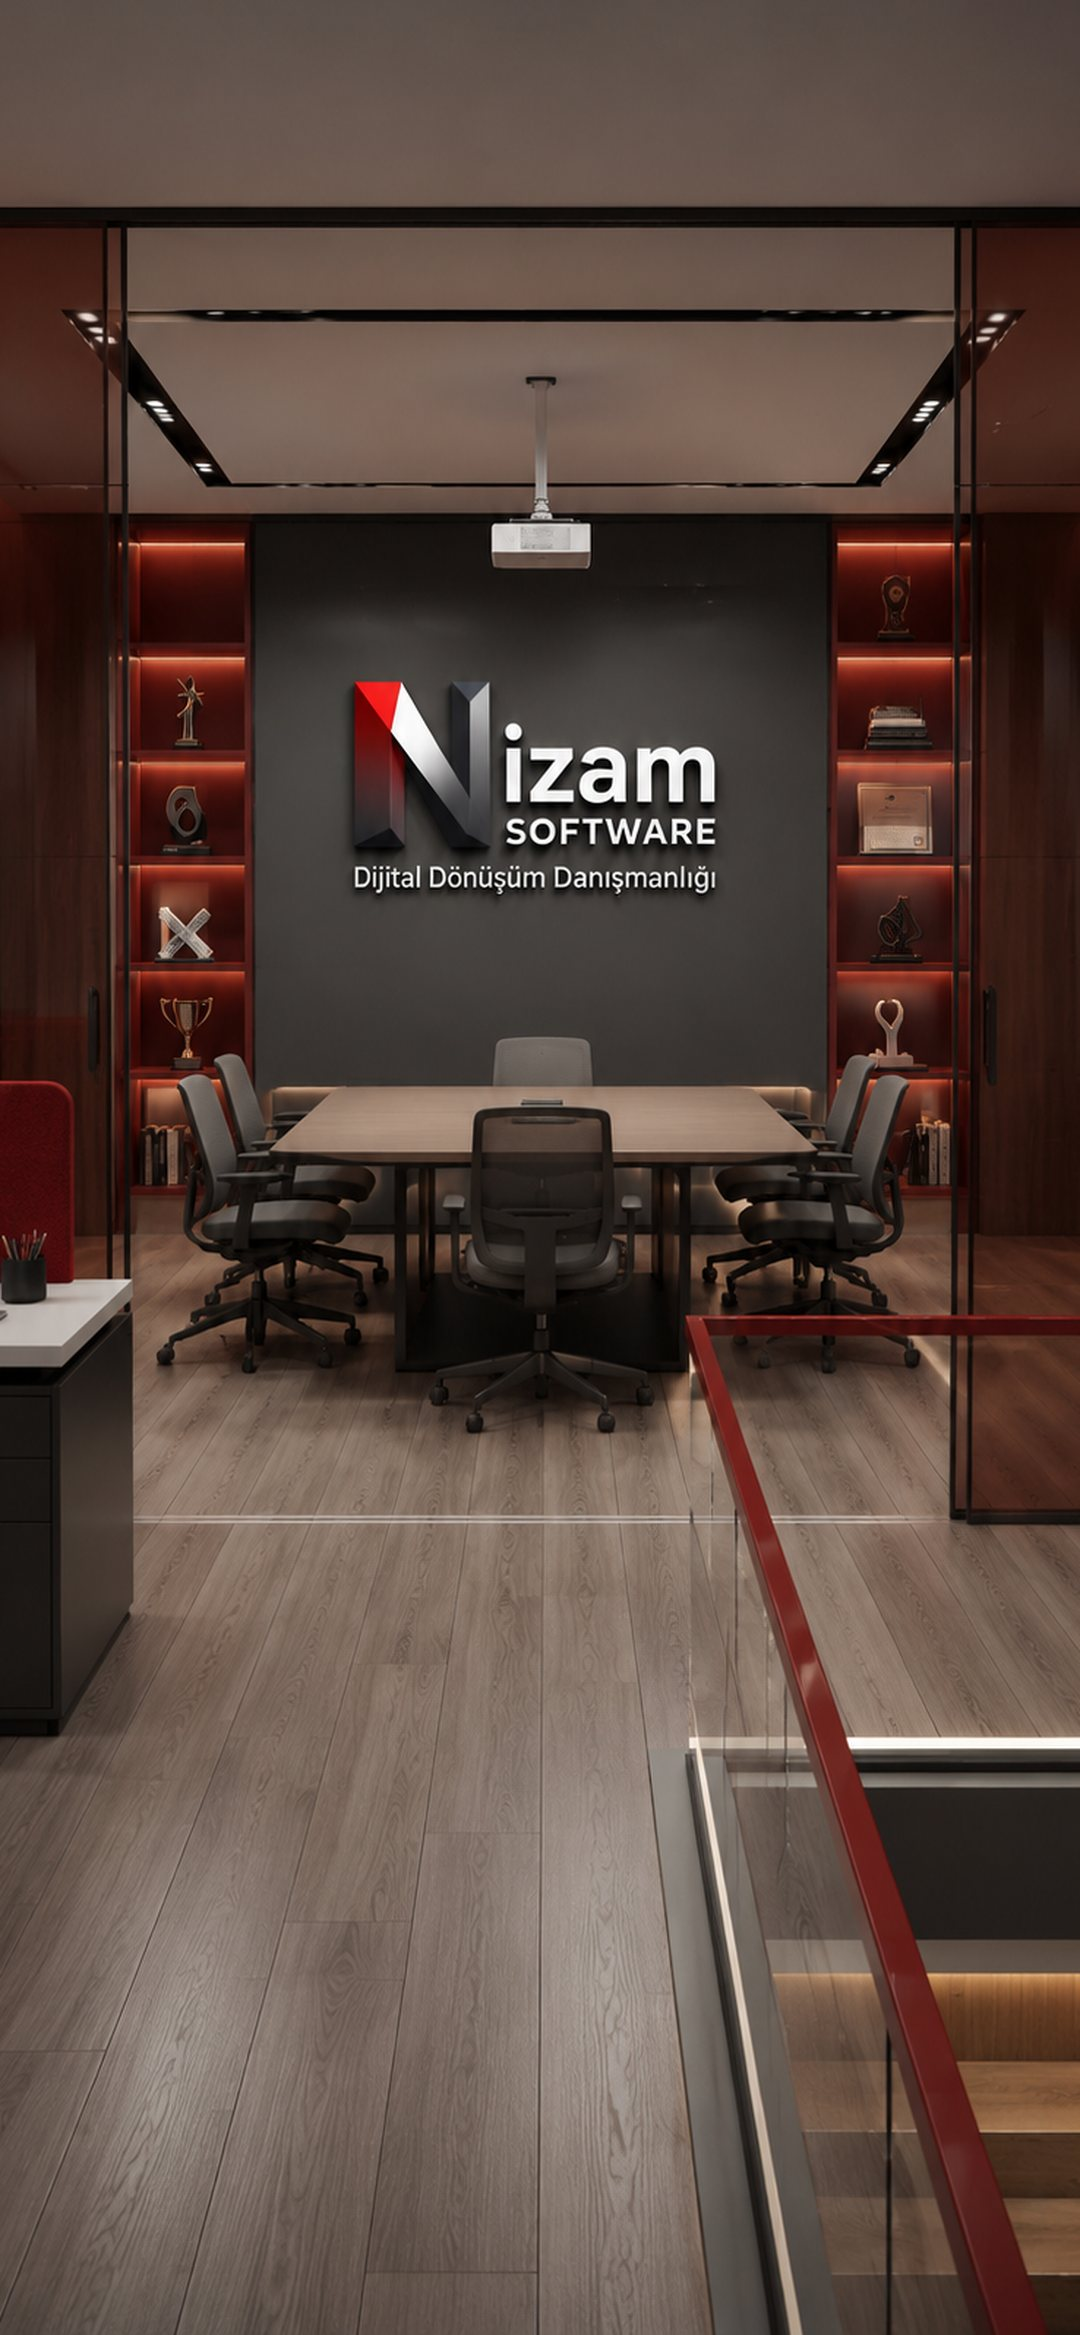
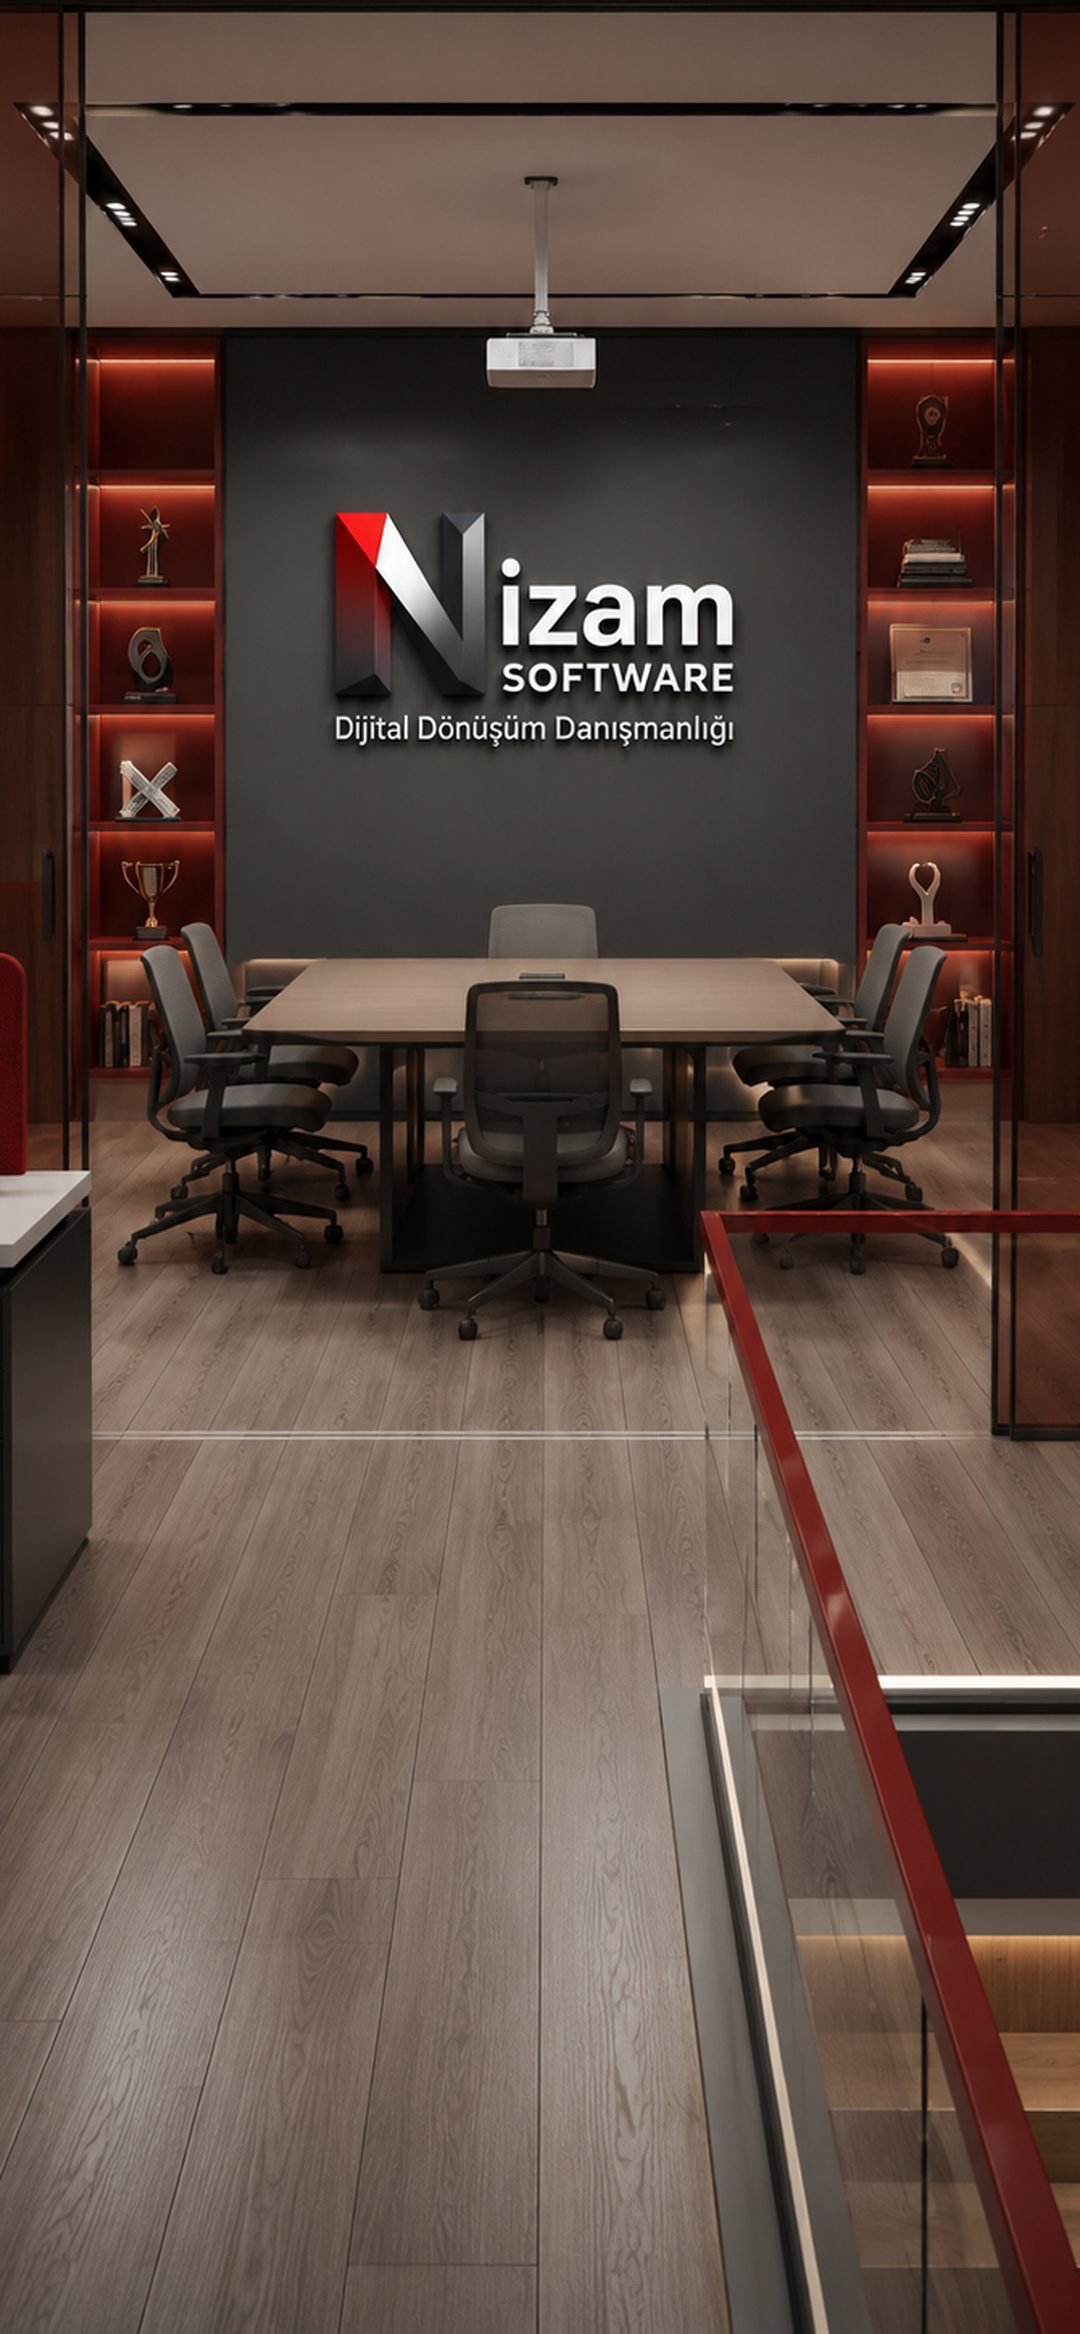
v0.83.0 — kararma yerine koyu buzlu cam
Fotoğraf sabit olduğu için kaydırınca kartlar net fotoğrafın üstüne
geliyordu; zemini karartarak çözüyorduk ama fotoğraf da kayboluyordu.
Artık fotoğraf net kalıyor, okunurluğu camın kendisi taşıyor: yoğun
bulanıklık, düşük geçirgenlik, ince ışıklı kenar. Kararma katmanı,
kaydırma dinleyicisi ve zeminKoyulugu silindi.

Fotoğraf daha çok kırpıldı, tavan payı azaldı. Selam şeridi geri geldi
ama küçük ve cam kutusuz — tavan bandında, doğrudan görselin üstünde.

Claude-Session: https://claude.ai/code/session_01Ma4TDJqoGksF8R64DrZn4N

diff --git a/index.html b/index.html
@@ -14,7 +14,7 @@
 <meta property="og:url" content="https://nizamsoft.github.io/NIZAM-Studio/">
 <meta property="og:title" content="NIZAM | Studio">
 <meta property="og:description" content="Müşteri talebini yapılandırılmış göreve, AI promptuna ve çalışan sürüme çeviren üretim sistemi.">
-<meta property="og:image" content="https://nizamsoft.github.io/NIZAM-Studio/og.jpg?v=0.82.0">
+<meta property="og:image" content="https://nizamsoft.github.io/NIZAM-Studio/og.jpg?v=0.83.0">
 <meta property="og:image:type" content="image/jpeg">
 <meta property="og:image:width" content="1200">
 <meta property="og:image:height" content="630">
@@ -23,7 +23,7 @@
 <meta name="twitter:card" content="summary_large_image">
 <meta name="twitter:title" content="NIZAM | Studio">
 <meta name="twitter:description" content="Müşteri talebini yapılandırılmış göreve, AI promptuna ve çalışan sürüme çeviren üretim sistemi.">
-<meta name="twitter:image" content="https://nizamsoft.github.io/NIZAM-Studio/og.jpg?v=0.82.0">
+<meta name="twitter:image" content="https://nizamsoft.github.io/NIZAM-Studio/og.jpg?v=0.83.0">
 
 <link rel="canonical" href="https://nizamsoft.github.io/NIZAM-Studio/">
 <title>NIZAM | Studio — Yazılım Üretim Yönetim Sistemi</title>
@@ -39,14 +39,14 @@
 <meta name="apple-mobile-web-app-status-bar-style" content="black">
 <meta name="apple-mobile-web-app-title" content="NIZAM Studio">
 
-<link rel="stylesheet" href="style.css?v=0.82.0">
+<link rel="stylesheet" href="style.css?v=0.83.0">
 </head>
 <body>
 
 <!-- ===== Açılış ekranı ===== -->
 <div id="loader">
   <div class="loader-box">
-    <img draggable="false" class="loader-logo" src="logo.png?v=0.82.0" alt="NIZAM Studio" width="89" height="128">
+    <img draggable="false" class="loader-logo" src="logo.png?v=0.83.0" alt="NIZAM Studio" width="89" height="128">
     <div class="loader-sub">Nizam Soft</div>
     <div class="loader-track"><div class="loader-fill"></div></div>
     <div class="loader-msg">Hazırlanıyor…</div>
@@ -57,7 +57,7 @@
 <!-- ===== Giriş ekranı ===== -->
 <div id="login" class="hidden">
   <form class="login-card" id="login-form" autocomplete="on">
-    <img class="login-logo" src="logo.png?v=0.82.0" alt="" width="46" height="66">
+    <img class="login-logo" src="logo.png?v=0.83.0" alt="" width="46" height="66">
     <h1>NIZAM <span class="pipe">|</span> Studio</h1>
     <p class="login-sub">Nizam Soft</p>
 
@@ -82,7 +82,7 @@
 
   <aside id="sidebar">
     <div class="brand">
-      <img class="brand-logo" src="logo.png?v=0.82.0" alt="" width="19" height="28">
+      <img class="brand-logo" src="logo.png?v=0.83.0" alt="" width="19" height="28">
       <div class="brand-text">
         <div class="brand-name">NIZAM <span class="pipe">|</span> Studio</div>
         <div class="brand-sub">Nizam Soft</div>
@@ -152,13 +152,13 @@
 
     <!-- Panelin zemini: ofis fotoğrafı. Yalnızca Panel'de görünür, ekranda
          sabit durur (kartlar üstünden akar), dokunmayı engellemez.
-         Üç katman: fotoğraf · aşağı doğru koyulaşan perde · aşağı doğru
-         artan bulanıklık. Kartlar bunun üstünde buzlu cam olarak yüzer. -->
+         Üç katman: fotoğraf · aşağı doğru artan bulanıklık · aşağı doğru
+         koyulaşan perde. Kartlar bunun üstünde koyu buzlu cam olarak yüzer;
+         kaydırınca fotoğraf kararmıyor, okunurluğu camın kendisi taşıyor. -->
     <div id="zemin-sus" aria-hidden="true">
-      <img class="ofis" src="ofis.jpg?v=0.82.0" alt="" width="1080" height="1851" draggable="false">
+      <img class="ofis" src="ofis.jpg?v=0.83.0" alt="" width="1080" height="1851" draggable="false">
       <span class="ofis-bulanik"></span>
       <span class="ofis-perde"></span>
-      <span class="ofis-kararma"></span>
       <span class="hale-kirmizi"></span>
     </div>
 
@@ -186,12 +186,12 @@
 
 <div id="toast" class="hidden"></div>
 
-<script src="vendor/supabase.js?v=0.82.0"></script>
-<script src="config.js?v=0.82.0"></script>
-<script src="auth.js?v=0.82.0"></script>
-<script src="data.js?v=0.82.0"></script>
-<script src="guncelle.js?v=0.82.0"></script>
-<script src="prompt.js?v=0.82.0"></script>
-<script src="app.js?v=0.82.0"></script>
+<script src="vendor/supabase.js?v=0.83.0"></script>
+<script src="config.js?v=0.83.0"></script>
+<script src="auth.js?v=0.83.0"></script>
+<script src="data.js?v=0.83.0"></script>
+<script src="guncelle.js?v=0.83.0"></script>
+<script src="prompt.js?v=0.83.0"></script>
+<script src="app.js?v=0.83.0"></script>
 </body>
 </html>

diff --git a/style.css b/style.css
@@ -2274,15 +2274,6 @@ a.durak:active { transform: scale(.99); transition: transform .1s var(--ease); }
     rgba(23, 22, 20, .95) 74%,
     var(--bg) 92%);
 }
-/* Fotoğraf sabit duruyor, kartlar üstünden akıyor. Kaydırınca kartlar
-   fotoğrafın net kısmına geliyor ve yazı okunmuyordu: kaydırma ilerledikçe
-   bu katman koyulaşıp fotoğrafı geri çekiyor. Değeri JS yazıyor. */
-#zemin-sus .ofis-kararma {
-  position: absolute; inset: 0; background: var(--bg);
-  opacity: calc(var(--zemin-ust, 0) * .84);
-  transition: opacity .12s linear;
-}
-
 /* Markanın kırmızısı fotoğrafın üstünde de bir kez duysun — üst köşede,
    çok soluk. */
 #zemin-sus .hale-kirmizi {
@@ -2302,6 +2293,18 @@ a.durak:active { transform: scale(.99); transition: transform .1s var(--ease); }
 #main { position: relative; }
 #main.susulu .view { position: relative; z-index: 1; }
 
+/* Panelin selam şeridi — fotoğrafın tavan bandında. Cam kutu yok; yazı
+   doğrudan fotoğrafın üstünde, gölgeyle okunuyor. */
+.p-selam { display: flex; align-items: baseline; gap: 9px; padding: 10px 2px 0; }
+.p-selam b {
+  font-family: var(--yazi-baslik); font-size: 21px; color: #fff;
+  text-shadow: 0 2px 12px rgba(0, 0, 0, .7);
+}
+.p-selam i {
+  font-style: normal; font-size: 11.5px; color: rgba(255, 255, 255, .72);
+  text-shadow: 0 1px 8px rgba(0, 0, 0, .75);
+}
+
 /* Panelin kısayol ızgarası ---------------------------------------------------
    Üç sütun. Her kutu bir yere götürüyor; kırmızı yalnız "Yeni Proje"de. */
 /* Panelde zemindeki ofis fotoğrafı hero: ızgara onun altından başlıyor ki
@@ -2310,7 +2313,7 @@ a.durak:active { transform: scale(.99); transition: transform .1s var(--ease); }
   display: grid; grid-template-columns: repeat(3, 1fr); gap: 9px;
   margin-top: 16px;
 }
-#main.susulu .kisayol { margin-top: 322px; }
+#main.susulu .kisayol { margin-top: 268px; }
 .kk {
   position: relative; display: block; text-align: center; cursor: pointer;
   padding: 13px 8px 22px; border-radius: 16px; text-decoration: none;
@@ -2393,17 +2396,29 @@ a.durak:active { transform: scale(.99); transition: transform .1s var(--ease); }
    Yalnız Panel'de. Diğer ekranlarda kartlar katı grafit olarak kalıyor —
    orada arkada fotoğraf yok, cam yapmanın anlamı da yok. */
 
+/* Kaydırınca fotoğraf kararmıyor; kartların net fotoğraf üstünde de
+   okunması gerekiyor. Bu yüzden cam açık değil koyu: yoğun bulanıklık,
+   düşük geçirgenlik, ince ışıklı kenar. */
 #main.susulu .kk,
 #main.susulu .bugun,
 #main.susulu .stat,
 #main.susulu .proje,
 #main.susulu .card {
-  background: rgba(28, 27, 25, .52);
-  border: 1px solid rgba(255, 255, 255, .13);
-  backdrop-filter: blur(22px) saturate(165%);
-  -webkit-backdrop-filter: blur(22px) saturate(165%);
-  box-shadow: inset 0 1px 0 rgba(255, 255, 255, .10),
-              0 18px 40px -22px rgba(0, 0, 0, .95);
+  background: rgba(16, 15, 14, .74);
+  border: 1px solid rgba(255, 255, 255, .11);
+  backdrop-filter: blur(30px) saturate(150%);
+  -webkit-backdrop-filter: blur(30px) saturate(150%);
+  box-shadow: inset 0 1px 0 rgba(255, 255, 255, .09),
+              0 20px 44px -24px rgba(0, 0, 0, .98);
+}
+/* Cam desteklenmiyorsa neredeyse tam kapatıyoruz: arkadaki fotoğraf
+   bulanıklaşmadan görünürse yazı okunmuyor. */
+@supports not ((backdrop-filter: blur(1px)) or (-webkit-backdrop-filter: blur(1px))) {
+  #main.susulu .kk,
+  #main.susulu .bugun,
+  #main.susulu .stat,
+  #main.susulu .proje,
+  #main.susulu .card { background: rgba(16, 15, 14, .94); }
 }
 /* Kartın kendi süsleri camın üstünde çamur yapıyordu: ışık huzmesi ve
    proje rengi degradesi bu ekranda kapalı. */

diff --git a/app.js b/app.js
@@ -237,6 +237,7 @@ const VIEWS = {
        eziyordu. Üst çubuk zaten kullanıcının adını gösteriyor; halkadaki genel
        yüzde de özet kartına taşındı. */
     return `
+      ${panelSelam()}
       ${kisayolIzgarasi(p.length, acik)}
       ${bugunkuDurum(dev, kont, bugun, p, ilerleme.yuzde)}
     `;
@@ -4659,7 +4660,6 @@ function render() {
   /* Zemin fotoğrafı yalnızca Panel'de. Sayfa değişince koyuluk sıfırlanır,
      yoksa panele döndüğünde fotoğraf kararmış geliyor. */
   $('#main').classList.toggle('susulu', key === 'panel' && !detay);
-  $('#main').style.setProperty('--zemin-ust', '0');
   /* Adım akışları kaydırılmaz: üç parça ekrana bölüşür. Yapı durağı ancak
      akış açıkken sabit; kurulu modül listesi normal kaydırılan sayfadır. */
   $('#view').classList.toggle('sabit',
@@ -8794,6 +8794,16 @@ function karsilama(ilerleme, projeSayi, acikIs) {
     </div>`;
 }
 
+/* Fotoğrafın tavan bandı boş kalıyordu; selam oraya oturuyor. Eski
+   karşılama bloğunun halkası yok — o yüzde özet kartında. */
+function panelSelam() {
+  return `
+    <div class="p-selam">
+      <b>${esc(selamla())}, ${esc(String(AUTH.ad || '').split(' ')[0])}</b>
+      <i>${esc(todayLabel())}</i>
+    </div>`;
+}
+
 /* ---------- Panelin kısayol ızgarası ----------
    Panel eskiden dört sayaç ve proje listesiydi: ne olduğunu söylüyor ama
    nereye gidileceğini söylemiyordu — her şeye alt çubuktan ulaşılıyordu.
@@ -9103,29 +9113,9 @@ async function boot() {
   }
 }
 
-/* Panel zemininde ofis fotoğrafı sabit duruyor ve kartlar üstünden akıyor.
-   Kaydırınca kartlar fotoğrafın net kısmına geliyordu; ilk 220 pikselde
-   perdeyi koyultup fotoğrafı geri çekiyoruz. Yalnız bir CSS değişkeni
-   yazılıyor — düzen hesabı yok, kaydırma takılmıyor. */
-function zeminKoyulugu() {
-  const ana = $('#main');
-  if (!ana || !ana.classList.contains('susulu')) return;
-  const v = $('#view');
-  if (!v) return;
-  const t = Math.min(1, Math.max(0, v.scrollTop / 220));
-  ana.style.setProperty('--zemin-ust', t.toFixed(3));
-}
-
 /* ==========================================================================
    OLAYLAR
    ========================================================================== */
-
-/* Kaydırma dinleyicisi bir kez bağlanıyor: #view her çizimde yeniden
-   yaratılmıyor, içeriği değişiyor. */
-document.addEventListener('DOMContentLoaded', () => {
-  const v = $('#view');
-  if (v) v.addEventListener('scroll', zeminKoyulugu, { passive: true });
-});
 
 window.addEventListener('hashchange', () => {
   if (!$('#app').classList.contains('hidden')) { modalHepsiniKapat(); render(); }

diff --git a/sw.js b/sw.js
@@ -2,7 +2,7 @@
    Ağ öncelikli: geliştirme sırasında eski dosya takılıp kalmaz.
    Ağ yoksa önbellekten döner. */
 
-const CACHE = 'nizam-studio-v0.82.0';
+const CACHE = 'nizam-studio-v0.83.0';
 const SHELL = [
   './', './index.html', './style.css', './app.js', './config.js', './auth.js', './data.js', './prompt.js', './guncelle.js',
   './vendor/supabase.js',

diff --git a/config.js b/config.js
@@ -7,7 +7,7 @@ const APP = {
   name:     'NIZAM | Studio',
   short:    'NIZAM Studio',
   owner:    'Nizam Soft',
-  version: 'v0.82.0',
+  version: 'v0.83.0',
   build:    '2026-08-28',
   /* Studio'nun kendi deposu — "bütün programlarda geçerli olsun"
      istekleri buraya gider. */

diff --git a/CHANGELOG.md b/CHANGELOG.md
@@ -1,5 +1,11 @@
 # Değişiklik Günlüğü
 
+## v0.83.0
+- **Kaydırma kararması kalktı, yerine koyu buzlu cam geldi.** Fotoğraf sabit olduğu için kaydırınca kartlar net fotoğrafın üstüne geliyordu; çözüm olarak zemini karartıyorduk — fotoğraf da kayboluyordu. Artık fotoğraf net kalıyor, okunurluğu **camın kendisi** taşıyor: yoğun bulanıklık, düşük geçirgenlik, ince ışıklı kenar. `zeminKoyulugu` fonksiyonu, kaydırma dinleyicisi ve kararma katmanı silindi.
+- **Fotoğraf daha çok kırpıldı**, tavan payı azaldı: logo duvarı, raflar ve masa artık ekranın büyük kısmını kaplıyor.
+- **Selam şeridi geri geldi** ama küçük ve cam kutusuz: fotoğrafın tavan bandında, doğrudan görselin üstünde. Eski karşılamanın 150px'lik halkası yok — genel yüzde özet kartında duruyor.
+- Cam desteklenmeyen tarayıcıda kartlar neredeyse tam kapatılıyor: arkadaki fotoğraf bulanıklaşmadan görünürse yazı okunmuyor.
+
 ## v0.82.0
 - **Zemin dikey ofis karesine geçti** ve boydan boya kullanılıyor. Önceki iki kare yataydı; telefonda ortadan ince bir dilim alınıyor, simetri ve kırmızı raflar gidiyordu. Yeni kare portre çekilmiş, kırpma yok. Boş tavan üstten kırpıldı.
 - **Karşılama bloğu kaldırıldı.** Fotoğrafın kendi logo duvarı hero'yu taşıyor; üstüne halka ve selam yazısı gelince ikisi birbirini eziyor, duvardaki logo hiç görünmüyordu. Üst çubuk zaten kullanıcının adını gösteriyor. Halkadaki genel ilerleme yüzdesi **"Bugünkü durum" kartının başlığına** taşındı — veri kaybolmadı.
